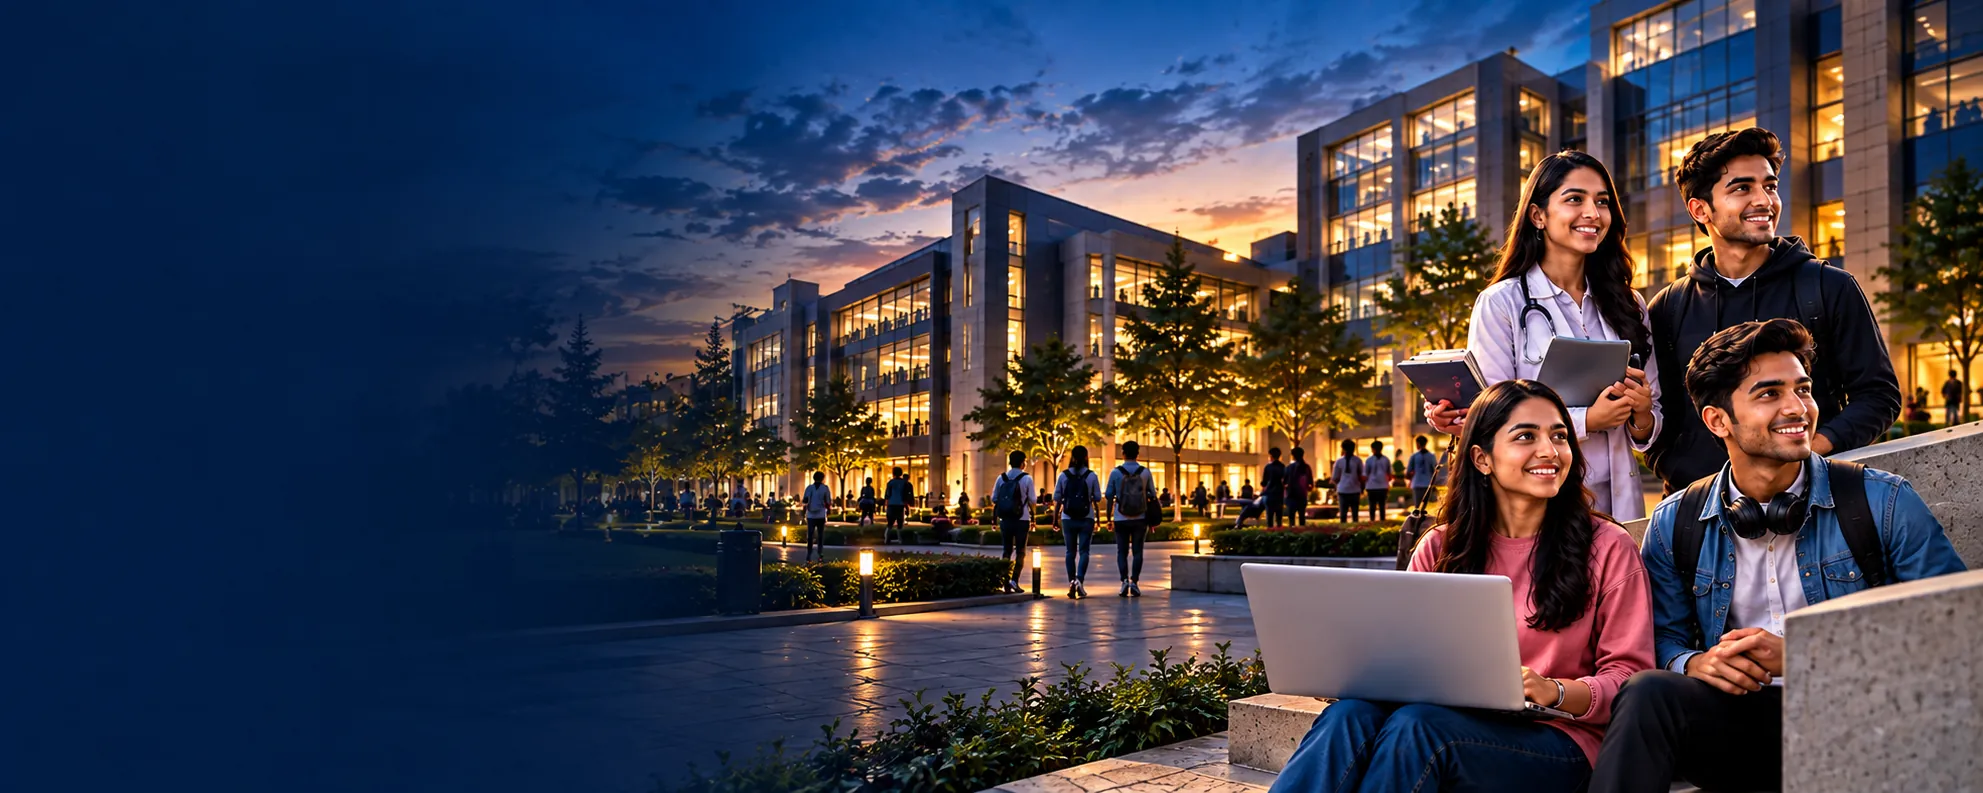
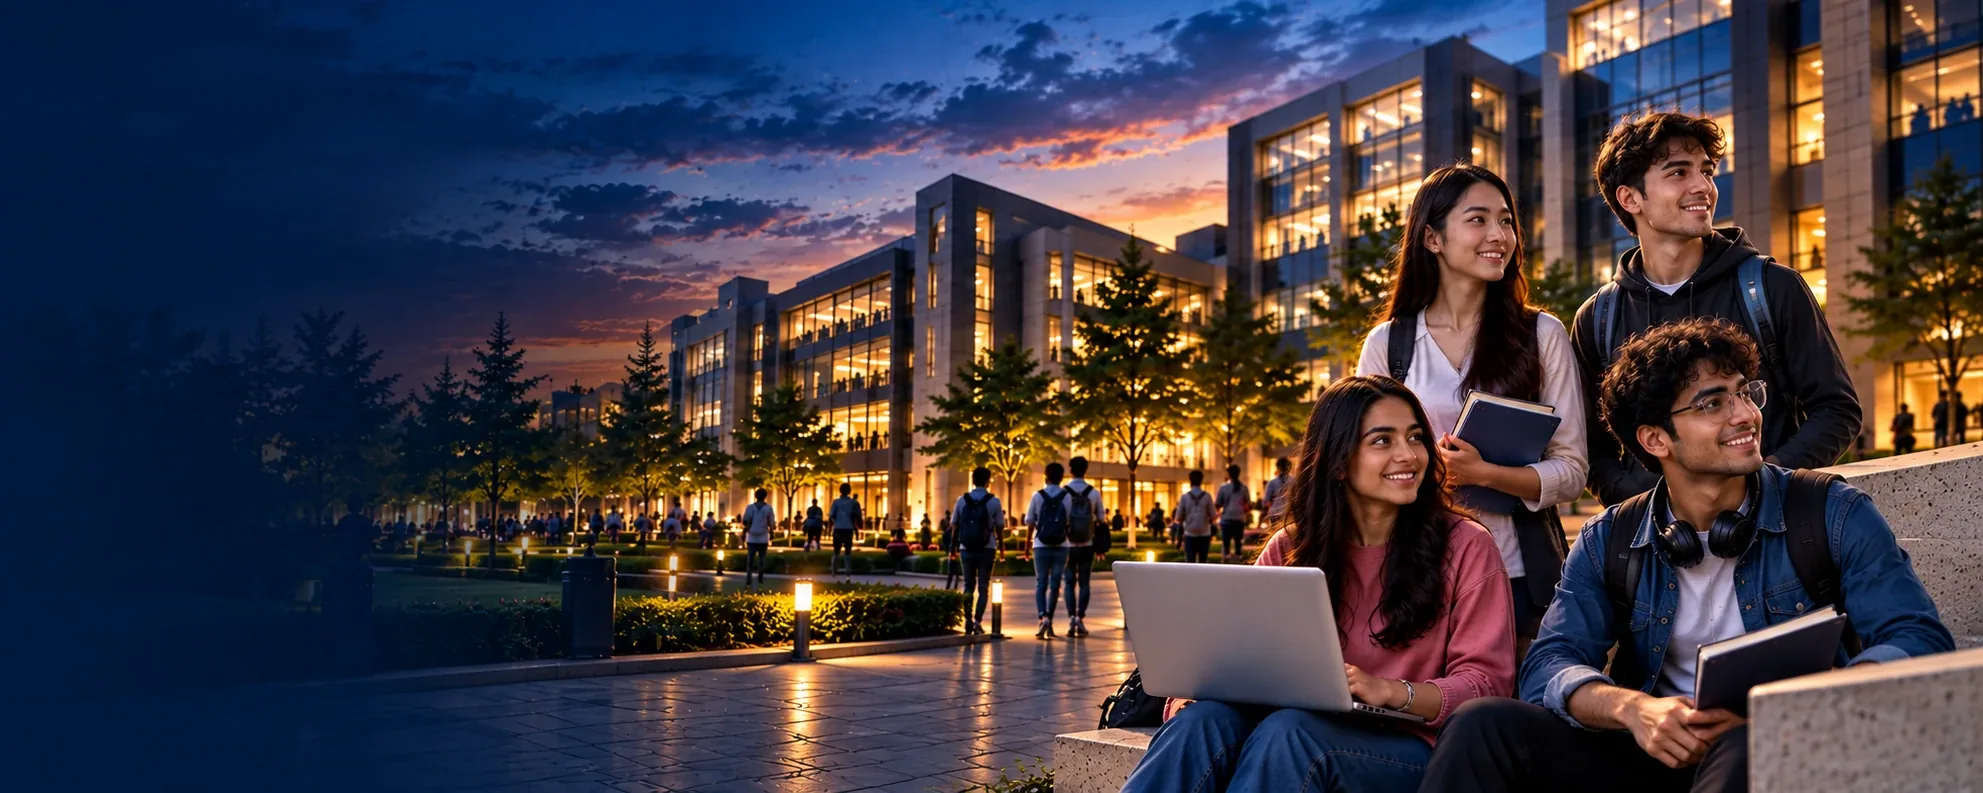
Replace slide 4 artwork and keep mobile hero artwork to a 6:5 band
New desktop and 6:5 mobile images for the India admissions slide. On phones,
slides 2–4 now show the artwork as a fixed-shape band at the top that fades
into the page, so the heading and form reach the first screen instead of the
artwork stretching to fill it.

diff --git a/src/index.css b/src/index.css
@@ -511,13 +511,13 @@ header .nav-dropdown { max-height: calc(100dvh - 160px); overflow-y: auto; }
 /* Phones, slides 2–4: the artwork is a band at the top so each slide's visual is in the first screen;
    the heading overlaps its fade, then the form, features and a compact pathway card follow. */
 @media (max-width:767px) {
-  .hero-slide:not(.slide-medical) { --hero-bg: #020617; --band: 330px; }
-  /* The slides share slide 1's height; the artwork band flexes to absorb the spare height so the
-     slider controls sit directly under the pathway card. */
+  .hero-slide:not(.slide-medical) { --hero-bg: #020617; }
+  /* The slides share slide 1's height; the artwork band keeps a fixed 6:5 shape and any spare
+     height goes below the content instead of stretching the artwork. */
   .hero-slide:not(.slide-medical) { flex-direction: column; }
-  .hero-slide:not(.slide-medical) .hero-media { position: relative; inset: auto; flex: 1 0 var(--band); }
+  .hero-slide:not(.slide-medical) .hero-media { position: relative; inset: auto; flex: none; aspect-ratio: 6 / 5; }
   .hero-slide:not(.slide-medical) .hero-slide-inner {
-    flex: none;
+    flex: 1 0 auto;
     align-items: flex-start;
     margin-top: -64px;
     padding: 0 0 92px;
@@ -534,9 +534,9 @@ header .nav-dropdown { max-height: calc(100dvh - 160px); overflow-y: auto; }
   }
   .slide-engineering { --band-pos: 36% 63%; }
   .slide-study-abroad { --band-pos: 50% 61%; }
-  .slide-india-admissions { --band-pos: 62% 70%; }
+  .slide-india-admissions { --band-pos: center top; }
   .hero-slide:not(.slide-medical) .hero-shade {
-    background: linear-gradient(180deg, #02061759 0, #02061700 70px, #02061700 calc(100% - 170px), #020617e6 calc(100% - 40px), #020617 100%);
+    background: linear-gradient(180deg, #02061759 0, #02061700 70px, #02061700 60%, #020617e6 90%, #020617 100%);
   }
   .hero-slide:not(.slide-medical) .hero-copy { max-width: none; }
   .hero-slide:not(.slide-medical) .hero-copy > .inline-flex { margin-bottom: 12px; }

diff --git a/src/components/Hero.jsx b/src/components/Hero.jsx
@@ -132,12 +132,15 @@ const pathwaySlides = [
 
 const categoryHref = Object.fromEntries(pathwaySlides[2].items.map(item => [item.label, item.href]));
 
+// Mobile artwork revision per slide; slide 4 has the 6:5 band artwork, 2–3 still use the tall v2 crops.
+const mobileVersion = { 'slide-1': '', 'slide-2': '-v2', 'slide-3': '-v2', 'slide-4': '-v3' };
+
 function HeroMedia({ image }) {
   return (
     <div className="hero-media" aria-hidden="true">
       <picture>
         <source media="(min-width: 768px)" srcSet={`/images/hero/${image}-desktop.webp`} />
-        <img src={`/images/hero/${image}-mobile${image === 'slide-1' ? '' : '-v2'}.webp`} alt="" decoding="async" fetchPriority={image === 'slide-1' ? 'high' : 'low'} />
+        <img src={`/images/hero/${image}-mobile${mobileVersion[image]}.webp`} alt="" decoding="async" fetchPriority={image === 'slide-1' ? 'high' : 'low'} />
       </picture>
       {image === 'slide-1' ? <>
         <div className="absolute inset-0 bg-gradient-to-r from-[#020617]/95 via-[#020617]/80 to-transparent md:to-[#020617]/40"></div>
